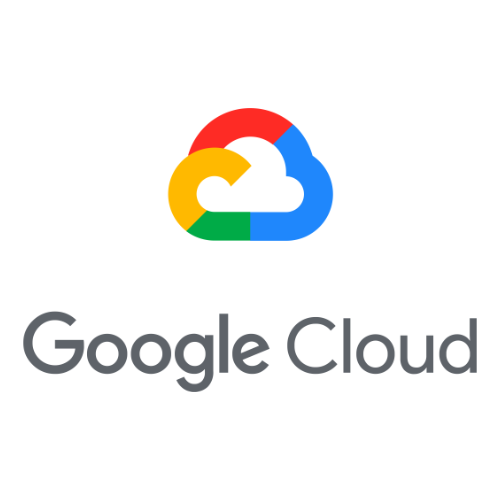
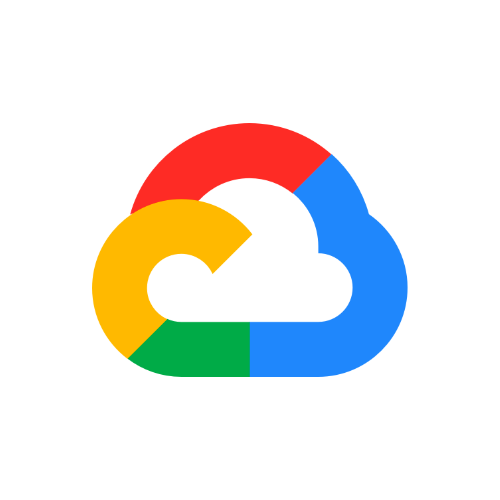
chore: Fix README, driver's image and some metadata to fit guidelines

Changed region(s): [[0.03, 0.21, 0.96, 0.78]]

diff --git a/README.md b/README.md
@@ -1,14 +1,24 @@
 # GCloud
 
-Connect to multiple Google Cloud services and extends Homey's capabilities.
+Connect to Google Cloud Platform and use services to extends Homey's capabilities.
 
 
 **Logs:**
-- Push some text to Google Logs with a given severity
+- Push Homey's activity to Google Logs with a given severity and keep an eye on your home
 
 **Storage:**
-- Upload files to Google Storage in an existing bucket
+- Upload camera snapshot into a Google Storage's bucket to act as backup
 
 
-Each device must be configured with a Google Cloud projectId and a Google Cloud Service Account JSON content.
-You can add as many device (ie: project) as you want.
+You can use as many Google project as you like, by adding new devices.
+Each device must be configured with a dedicated Google Cloud project id and a Google Cloud Service Account JSON content to grant access.
+
+
+Preparing a Google Cloud project :
+- Create a [new GCP project](https://console.cloud.google.com/projectcreate)
+- In "Api and services", activate "Cloud Logging API" and "Cloud Storage API"
+- Create a [bucket in Google Storage](https://console.cloud.google.com/storage/create-bucket)
+- Create a [service account](https://console.cloud.google.com/iam-admin/serviceaccounts) to allow Homey to call GCP API
+    - Give the name of your choice and add the following roles : `roles/logging.logWriter`, `roles/storage.objectUser`
+    - In the detail of the created service account, go in "keys" tab and create a new JSON key. This is your Google Service Account JSON content to use in Homey's device settings.
+
